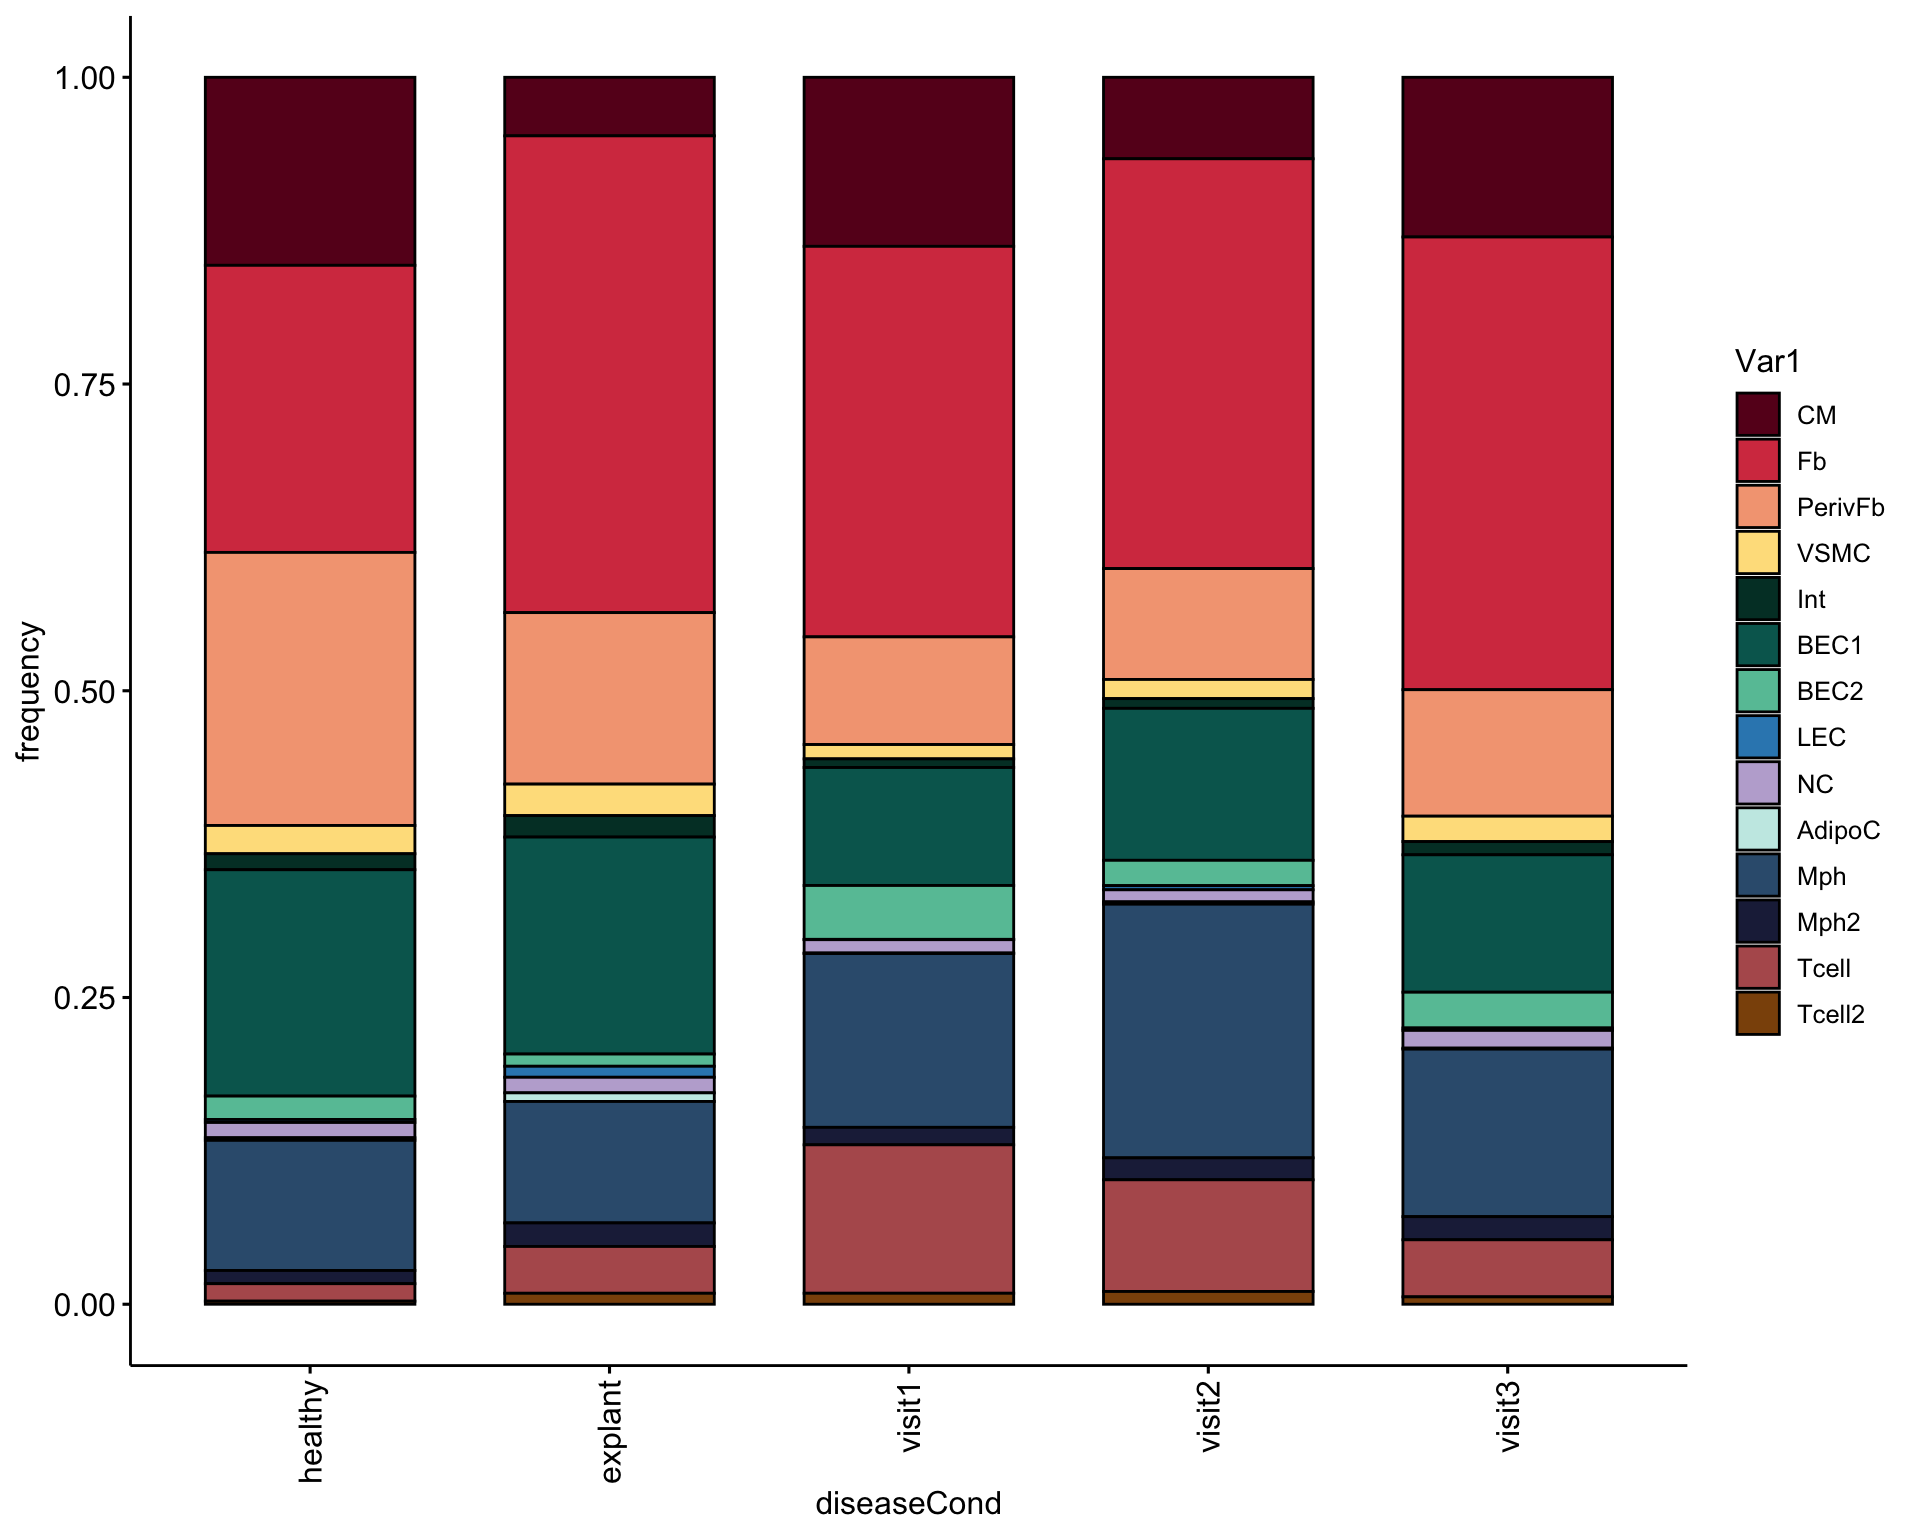
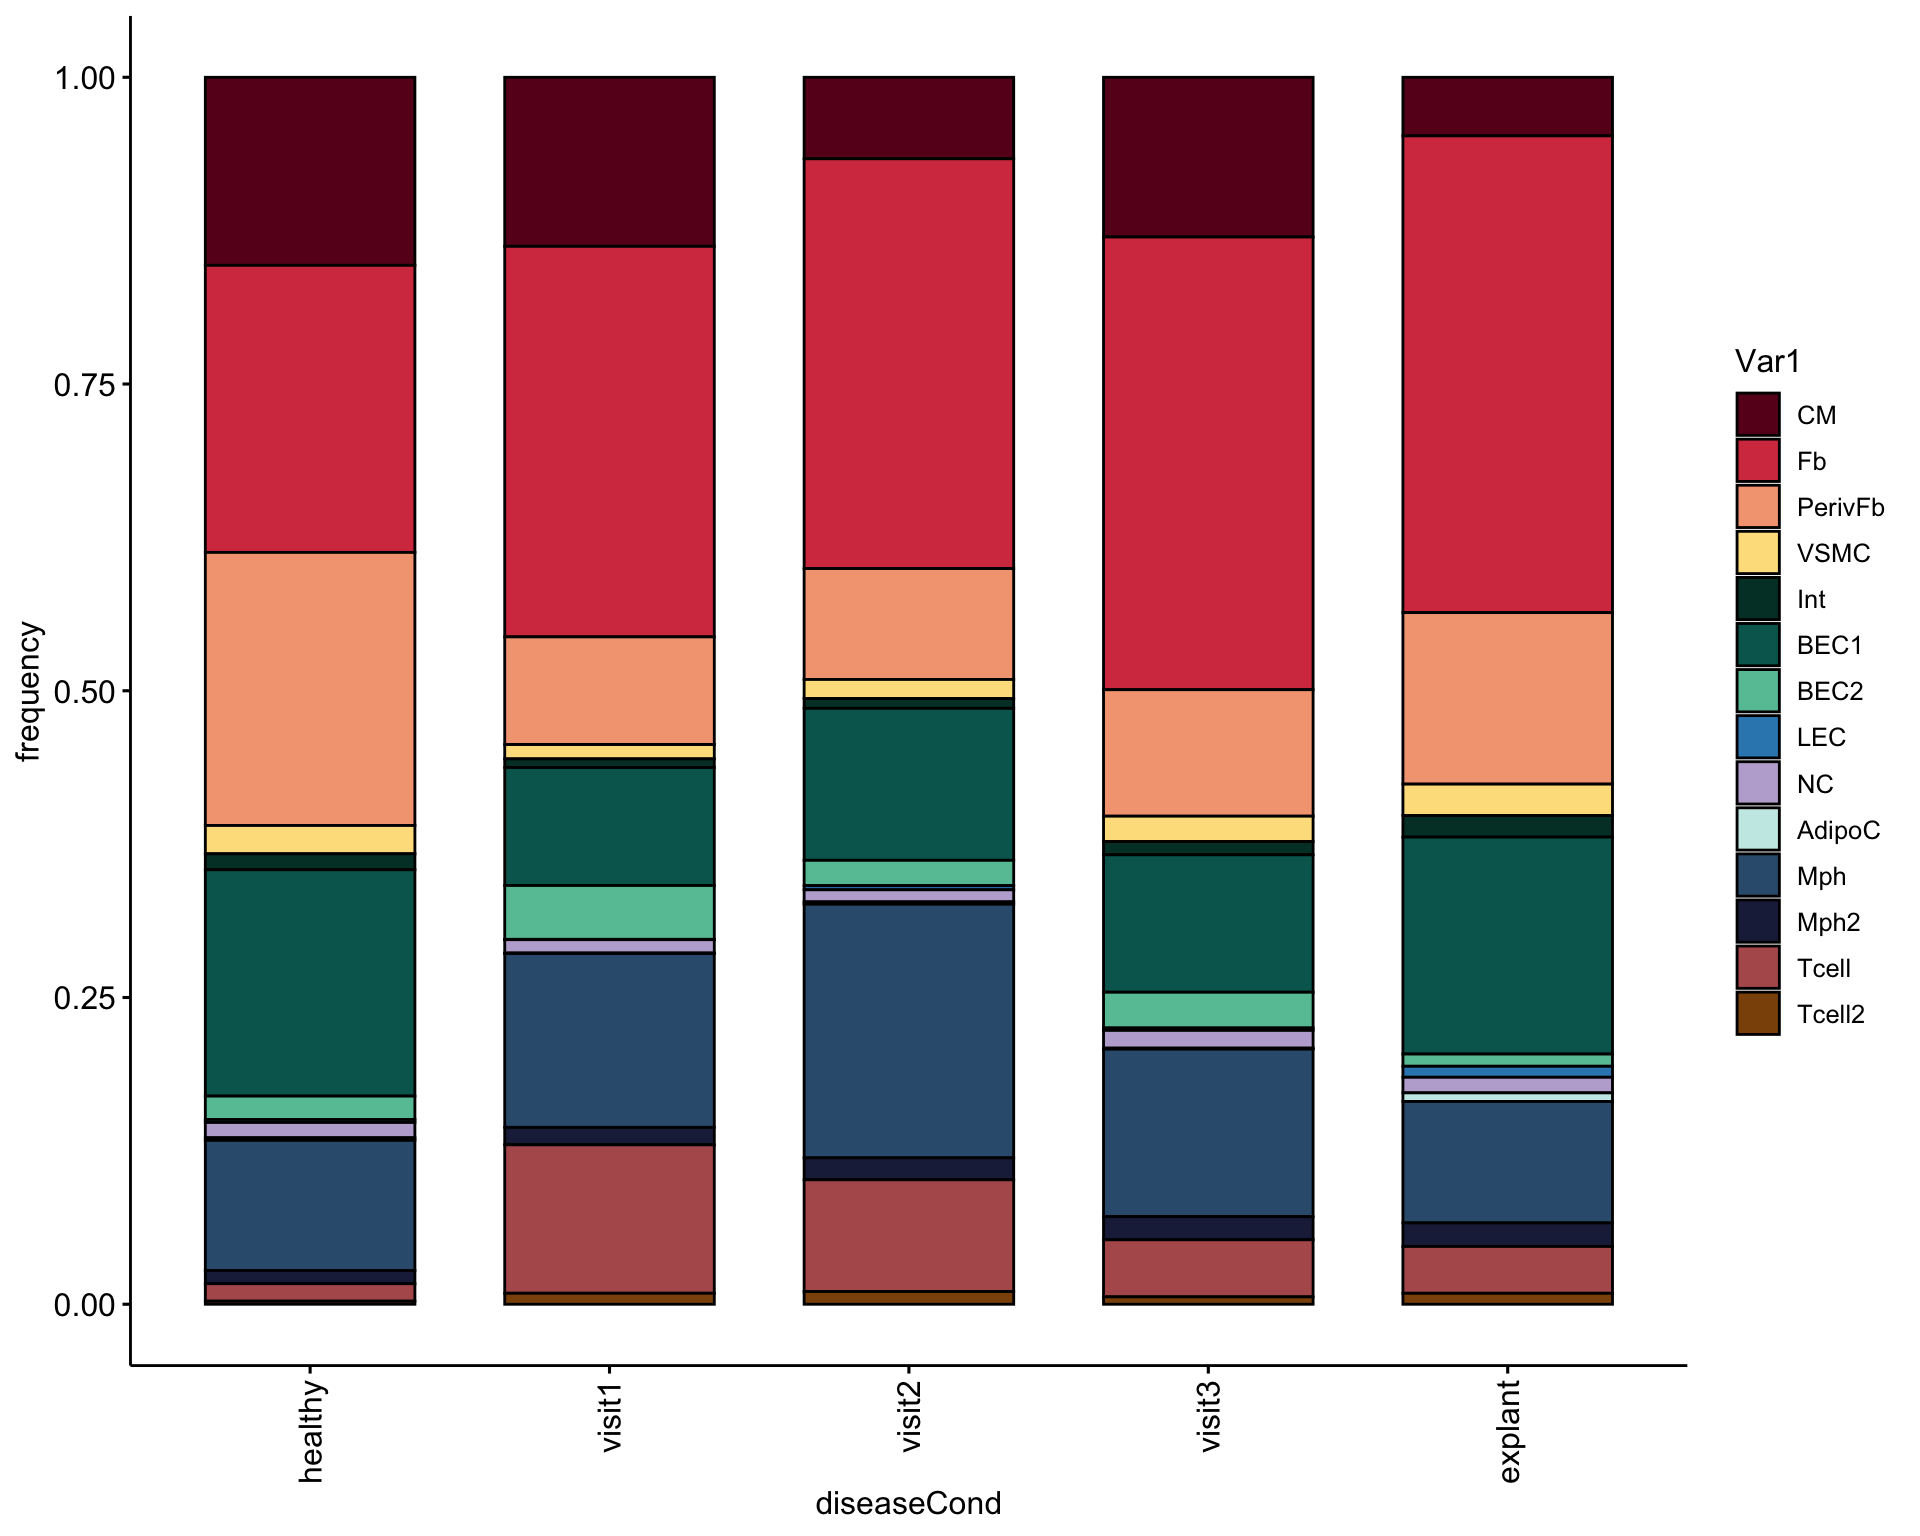
Nov24-3

diff --git a/docs/RelativeAbundances.html b/docs/RelativeAbundances.html
@@ -382,7 +382,7 @@ aria-hidden="true"></span> </a>
 <div class="tab-content">
 <div id="summary" class="tab-pane fade in active">
 <p>
-<strong>Last updated:</strong> 2024-11-17
+<strong>Last updated:</strong> 2024-11-18
 </p>
 <p>
 <strong>Checks:</strong> <span
@@ -542,15 +542,15 @@ data/Human_heart_allmerged_seurat.rds
 <div class="panel panel-default">
 <div class="panel-heading">
 <p class="panel-title">
-<a data-toggle="collapse" data-parent="#workflowr-checks" href="#strongRepositoryversionstrongahrefhttpsgithubcomangeldemartinHumanHeartCarTranstreef7bd86bcfe8b24c088b7827e1091a1822af78b91targetblankf7bd86ba">
+<a data-toggle="collapse" data-parent="#workflowr-checks" href="#strongRepositoryversionstrongahrefhttpsgithubcomangeldemartinHumanHeartCarTranstree6d9885325e369e66c97425f27f7da659dcba4f22targetblank6d98853a">
 <span class="glyphicon glyphicon-ok text-success"
 aria-hidden="true"></span> <strong>Repository version:</strong>
-<a href="https://github.com/angeldemartin/HumanHeartCarTrans/tree/f7bd86bcfe8b24c088b7827e1091a1822af78b91" target="_blank">f7bd86b</a>
+<a href="https://github.com/angeldemartin/HumanHeartCarTrans/tree/6d9885325e369e66c97425f27f7da659dcba4f22" target="_blank">6d98853</a>
 </a>
 </p>
 </div>
 <div
[2 lines of base64/hex data omitted]
 class="panel-collapse collapse">
 <div class="panel-body">
 <p>
@@ -560,7 +560,7 @@ reproducibility.
 </p>
 <p>
 The results in this page were generated with repository version
-<a href="https://github.com/angeldemartin/HumanHeartCarTrans/tree/f7bd86bcfe8b24c088b7827e1091a1822af78b91" target="_blank">f7bd86b</a>.
+<a href="https://github.com/angeldemartin/HumanHeartCarTrans/tree/6d9885325e369e66c97425f27f7da659dcba4f22" target="_blank">6d98853</a>.
 See the <em>Past versions</em> tab to see a history of the changes made
 to the R Markdown and HTML files.
 </p>
@@ -583,7 +583,6 @@ Ignored files:
     Ignored:    data/seurat files/
 
 Unstaged changes:
-    Modified:   analysis/FbHighres.Rmd
     Modified:   analysis/RelativeAbundances.Rmd
 
 </code></pre>
@@ -629,6 +628,40 @@ Message
 </tr>
 </thead>
 <tbody>
+<tr>
+<td>
+Rmd
+</td>
+<td>
+<a href="https://github.com/angeldemartin/HumanHeartCarTrans/blob/6d9885325e369e66c97425f27f7da659dcba4f22/analysis/RelativeAbundances.Rmd" target="_blank">6d98853</a>
+</td>
+<td>
+angeldemartin
+</td>
+<td>
+2024-11-18
+</td>
+<td>
+Nov24
+</td>
+</tr>
+<tr>
+<td>
+html
+</td>
+<td>
+<a href="https://rawcdn.githack.com/angeldemartin/HumanHeartCarTrans/6d9885325e369e66c97425f27f7da659dcba4f22/docs/RelativeAbundances.html" target="_blank">6d98853</a>
+</td>
+<td>
+angeldemartin
+</td>
+<td>
+2024-11-18
+</td>
+<td>
+Nov24
+</td>
+</tr>
 <tr>
 <td>
 html
@@ -1077,6 +1110,44 @@ for(con in unique(seuratMhealexpl$diseaseCond)){
 ## plot abundance
 ggbarplot(dat_all, x= &quot;diseaseCond&quot;, y= &quot;percent&quot;, fill = &quot;Var1&quot;, palette = colclusterName, legend = &quot;right&quot;, legend.titel = &quot;cluster&quot;, ylab = &quot;frequency&quot;)  + theme(axis.text.x = element_text(angle = 90, vjust = 0.5, hjust=1)) + scale_x_discrete(limits=orddiseaseCond2)</code></pre>
 <p><img src="figure/RelativeAbundances.Rmd/abundance%20diseaseCond%20heal%20and%20expl-1.png" width="960" style="display: block; margin: auto;" /></p>
+<p>
+<button type="button" class="btn btn-default btn-xs btn-workflowr btn-workflowr-fig" data-toggle="collapse" data-target="#fig-no-spaces-abundance-diseaseCond-heal-and-expl-1">
+Past versions of "abundance diseaseCond heal and expl-1.png"
+</button>
+</p>
+<div id="fig-no-spaces-abundance-diseaseCond-heal-and-expl-1"
+class="collapse">
+<div class="table-responsive">
+<table class="table table-condensed table-hover">
+<thead>
+<tr>
+<th>
+Version
+</th>
+<th>
+Author
+</th>
+<th>
+Date
+</th>
+</tr>
+</thead>
+<tbody>
+<tr>
+<td>
+<a href="https://github.com/angeldemartin/HumanHeartCarTrans/blob/6d9885325e369e66c97425f27f7da659dcba4f22/docs/figure/RelativeAbundances.Rmd/abundance diseaseCond heal and expl-1.png" target="_blank">6d98853</a>
+</td>
+<td>
+angeldemartin
+</td>
+<td>
+2024-11-18
+</td>
+</tr>
+</tbody>
+</table>
+</div>
+</div>
 </div>
 <div id="fractions-according-to-patientsdisease-cond"
 class="section level2">
@@ -1885,7 +1956,7 @@ angeldemartin
 <div id="session-info" class="section level2">
 <h2>session info</h2>
 <pre class="r"><code>date()</code></pre>
-<pre><code>[1] &quot;Sun Nov 17 13:51:37 2024&quot;</code></pre>
+<pre><code>[1] &quot;Mon Nov 18 07:57:11 2024&quot;</code></pre>
 <pre class="r"><code>sessionInfo()</code></pre>
 <pre><code>R version 4.4.0 (2024-04-24)
 Platform: x86_64-apple-darwin20

diff --git a/docs/index.html b/docs/index.html
@@ -302,7 +302,7 @@ class="glyphicon glyphicon-ok text-success" aria-hidden="true"></span>
 <div class="tab-content">
 <div id="summary" class="tab-pane fade in active">
 <p>
-<strong>Last updated:</strong> 2024-11-17
+<strong>Last updated:</strong> 2024-11-18
 </p>
 <p>
 <strong>Checks:</strong> <span
@@ -349,15 +349,15 @@ results.</p>
 <div class="panel panel-default">
 <div class="panel-heading">
 <p class="panel-title">
-<a data-toggle="collapse" data-parent="#workflowr-checks" href="#strongRepositoryversionstrongahrefhttpsgithubcomangeldemartinHumanHeartCarTranstreef7bd86bcfe8b24c088b7827e1091a1822af78b91targetblankf7bd86ba">
+<a data-toggle="collapse" data-parent="#workflowr-checks" href="#strongRepositoryversionstrongahrefhttpsgithubcomangeldemartinHumanHeartCarTranstree6d9885325e369e66c97425f27f7da659dcba4f22targetblank6d98853a">
 <span class="glyphicon glyphicon-ok text-success"
 aria-hidden="true"></span> <strong>Repository version:</strong>
-<a href="https://github.com/angeldemartin/HumanHeartCarTrans/tree/f7bd86bcfe8b24c088b7827e1091a1822af78b91" target="_blank">f7bd86b</a>
+<a href="https://github.com/angeldemartin/HumanHeartCarTrans/tree/6d9885325e369e66c97425f27f7da659dcba4f22" target="_blank">6d98853</a>
 </a>
 </p>
 </div>
 <div
[2 lines of base64/hex data omitted]
 class="panel-collapse collapse">
 <div class="panel-body">
 <p>
@@ -367,7 +367,7 @@ reproducibility.
 </p>
 <p>
 The results in this page were generated with repository version
-<a href="https://github.com/angeldemartin/HumanHeartCarTrans/tree/f7bd86bcfe8b24c088b7827e1091a1822af78b91" target="_blank">f7bd86b</a>.
+<a href="https://github.com/angeldemartin/HumanHeartCarTrans/tree/6d9885325e369e66c97425f27f7da659dcba4f22" target="_blank">6d98853</a>.
 See the <em>Past versions</em> tab to see a history of the changes made
 to the R Markdown and HTML files.
 </p>
@@ -389,8 +389,7 @@ Ignored files:
     Ignored:    analysis/.Rhistory
     Ignored:    data/seurat files/
 
-Unstaged changes:
-    Modified:   analysis/FbHighres.Rmd
+Staged changes:
     Modified:   analysis/RelativeAbundances.Rmd
 
 </code></pre>
@@ -435,6 +434,23 @@ Message
 </tr>
 </thead>
 <tbody>
+<tr>
+<td>
+html
+</td>
+<td>
+<a href="https://rawcdn.githack.com/angeldemartin/HumanHeartCarTrans/6d9885325e369e66c97425f27f7da659dcba4f22/docs/index.html" target="_blank">6d98853</a>
+</td>
+<td>
+angeldemartin
+</td>
+<td>
+2024-11-18
+</td>
+<td>
+Nov24
+</td>
+</tr>
 <tr>
 <td>
 Rmd
